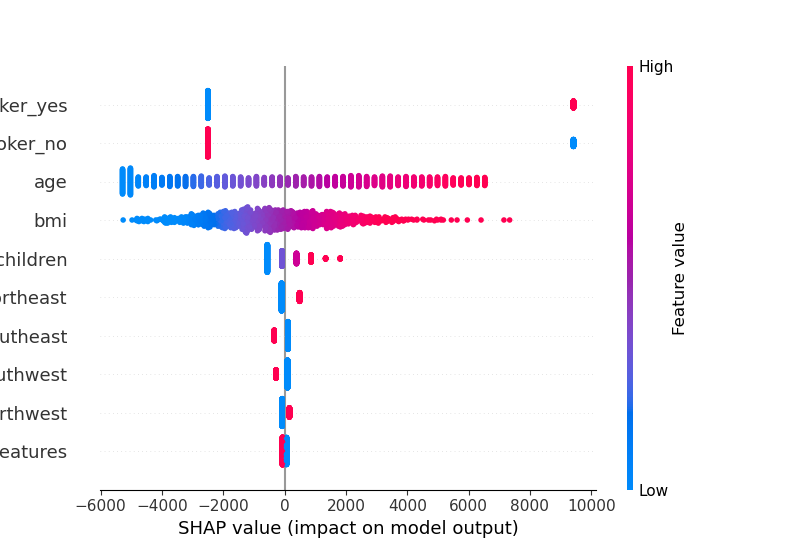
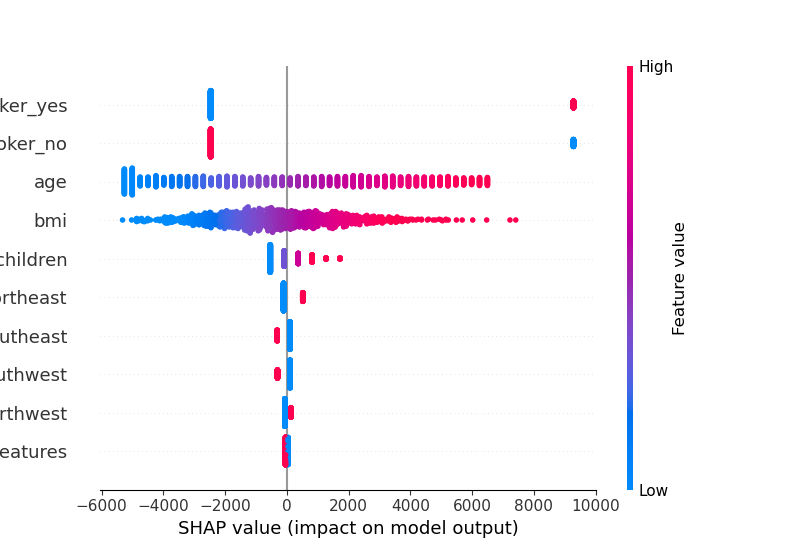
Updated waterfall chart

diff --git a/shap_article.py b/shap_article.py
@@ -40,23 +40,34 @@ X_train, X_test, y_train, y_test = train_test_split(
 
 
 lm = LinearRegression()
-lm.fit(rating_factors_encoded, df[claims])
+lm.fit(X_train, y_train)
 
 plot_feature_importance(lm, list(rating_factors_encoded.columns))
 
-lin_exp = shap.LinearExplainer(lm, X_train)
-shap_values = lin_exp(X_train)
+
+background = shap.maskers.Independent(X_train, max_samples=1000)
+explainer = shap.LinearExplainer(lm, X_train)
+shap_values = explainer(X_train)
+
+idx = 1
+
 shap.plots.beeswarm(shap_values, show=False)
 plt.savefig(output_path + "\\shap_summary_plot.png")
 plt.clf()
 
-idx = 1
-shap.force_plot(shap_values[0], rating_factors_encoded.iloc[0, :], matplotlib=True, show=False)
+
+shap.plots.waterfall(shap_values[idx], max_display=14, show=False)
+plt.savefig(output_path + "\\shap_waterfall_plot.png")
+plt.clf()
+
+
+shap.force_plot(explainer.expected_value, shap_values)
 plt.savefig(output_path + "\\shap_plot_{}.png".format(idx))
 plt.clf()
 
-shap.force_plot(shap_values, rating_factors_encoded, matplotlib=True, show=False)
-plt.savefig(output_path + "\\shap_plot_stacked.png")
+#shap.force_plot(shap_values, rating_factors_encoded, matplotlib=True, show=False)
+#plt.savefig(output_path + "\\shap_plot_stacked.png")
+
 
 
 if __name__ == "__main__":
